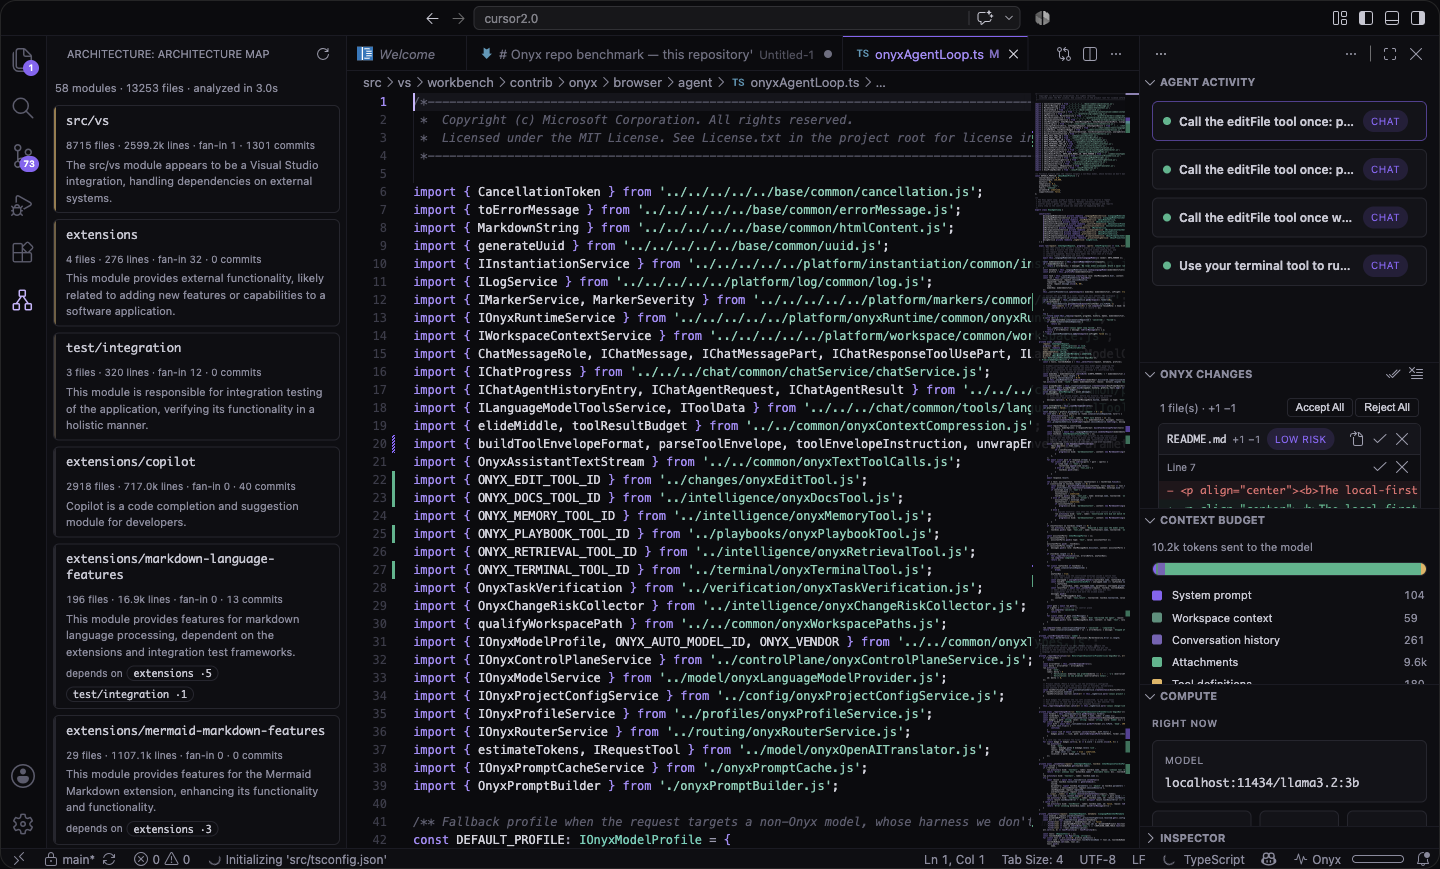
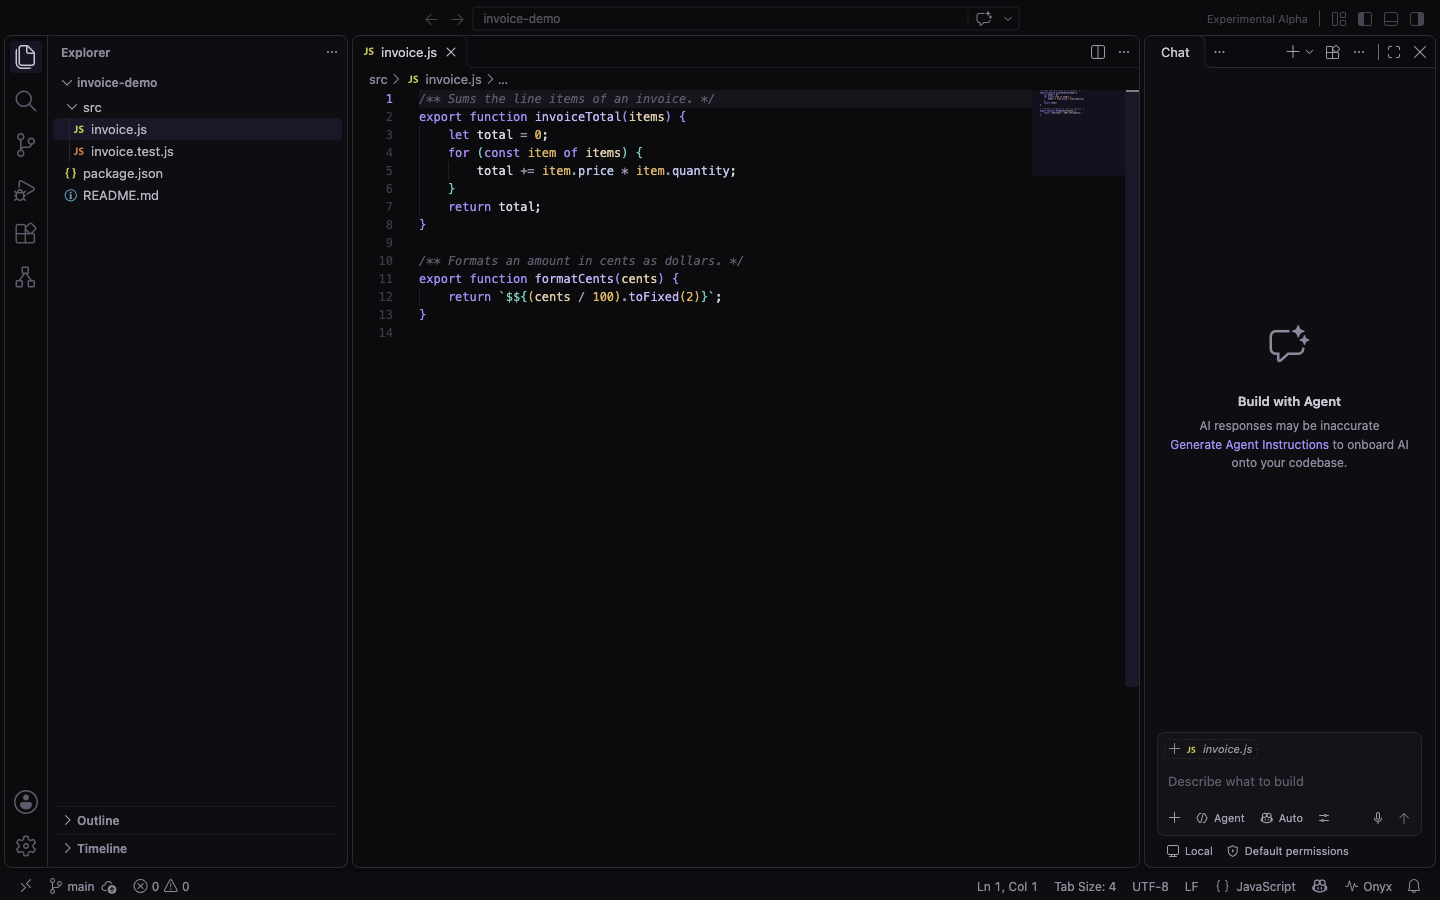
D6: four images re-captured from the packaged build with the pinned 7B model; the rest labelled for the owner's re-capture

diff --git a/README.md b/README.md
@@ -151,6 +151,8 @@ model is verified to be local, because nothing verifies it.
 ### Nothing touches your code without you
 
 <img src="docs/images/onyx-changes.png" alt="Onyx Changes: agent edits staged for per-hunk review — nothing touches a file until accepted" width="420" />
+
+<sub>Captured in August 2026 from a development build, before the alpha's review and approval changes; to be re-captured from the release candidate (`docs/images/MANIFEST.md`).</sub>
 <img src="docs/images/onyx-terminal-approval.png" alt="The agent proposing a shell command in an approval dialog. Screenshot from August 2026: it still shows the Run for This Session and Always Run buttons, which the alpha removed" width="900" />
 
 *The screenshot predates the alpha's approval contract: the dialog now offers Run Once and Deny only.*
@@ -204,6 +206,8 @@ model is verified to be local, because nothing verifies it.
 
 <img src="docs/images/onyx-architecture.png" alt="The Onyx architecture map: modules, dependencies, churn and fan-in hot spots with local-model summaries" width="420" />
 
+<sub>Captured in August 2026 from a development build, before the alpha's review and approval changes; to be re-captured from the release candidate (`docs/images/MANIFEST.md`).</sub>
+
 - **An architecture map of the workspace.** Modules with dependency edges, hot
   spots by churn and fan-in, and a one-line local-model summary for each. The map shows
   inherited source as well as Onyx's own: in a map of this repository
@@ -240,6 +244,8 @@ model is verified to be local, because nothing verifies it.
 
 <img src="docs/images/onyx-inline-edit.png" alt="Inline edit: a local model's change streaming in as four reviewable hunks" width="900" />
 
+<sub>Captured in August 2026 from a development build, before the alpha's review and approval changes; to be re-captured from the release candidate (`docs/images/MANIFEST.md`).</sub>
+
 - **Inline edit that survives small models (`⌘I`).** Select code, say what to
   change, and the edit comes back as a proposal: its hunks are shown under the
   lines they would replace and are not in your file. `⌘⏎` keeps one (one
@@ -269,12 +275,16 @@ model is verified to be local, because nothing verifies it.
   timeline as clickable `file:line` links. The reviewer reports; it never edits.
 
   <img src="docs/images/onyx-commit-message.png" alt="A commit message written from the staged diff by a local model, in the SCM input" width="900" />
+
+<sub>Captured in August 2026 from a development build, before the alpha's review and approval changes; to be re-captured from the release candidate (`docs/images/MANIFEST.md`).</sub>
 - **The debugger, in the conversation.** While a session is paused, **Onyx:
   Explain This Failure** sends the stack, frames and variable values through
   normal chat — and the full snapshot is visible in the request before it goes,
   because nothing should be redacted silently.
 
 <img src="docs/images/onyx-debug.png" alt="Onyx: Explain This Failure at a real breakpoint, with the stack, variables and the model's diagnosis" width="900" />
+
+<sub>Captured in August 2026 from a development build, before the alpha's review and approval changes; to be re-captured from the release candidate (`docs/images/MANIFEST.md`).</sub>
 <p><i>Paused at a real breakpoint: the stack and the actual variable values go into a request you can read, and the local model finds the null in the array.</i></p>
 
 - **Tournament mode.** `Onyx: Run in Parallel` races one instruction across
@@ -285,6 +295,8 @@ model is verified to be local, because nothing verifies it.
 ### Everything is observable
 
 <img src="docs/images/onyx-control-plane.png" alt="The Onyx control plane: an adversarial review run with file:line findings" width="900" />
+
+<sub>Captured in August 2026 from a development build, before the alpha's review and approval changes; to be re-captured from the release candidate (`docs/images/MANIFEST.md`).</sub>
 
 - **The Onyx Control Plane (`⌘⌃O`)** streams every routing decision, model turn
   and tool call live — with pause, stop and redirect — plus an estimated context
@@ -303,6 +315,8 @@ model is verified to be local, because nothing verifies it.
 
 <img src="docs/images/onyx-compute.png" alt="The Onyx compute dashboard: per-model tokens, throughput and B·s" width="900" />
 
+<sub>Captured in August 2026 from a development build, before the alpha's review and approval changes; to be re-captured from the release candidate (`docs/images/MANIFEST.md`).</sub>
+
 <details>
 <summary><b>The rest of the workbench</b> — first run, themes, and what a fresh install does <i>not</i> ask you</summary>
 
@@ -316,6 +330,8 @@ your machine, and Onyx tells you which runtimes it can already see.*
 <img src="docs/images/onyx-workbench.png" alt="Onyx workbench: Onyx Dark theme, local agent chat, control plane" width="900" />
 
 <img src="docs/images/onyx-light.png" alt="Onyx Light: the same accent language on warm paper" width="900" />
+
+<sub>Captured in August 2026 from a development build, before the alpha's review and approval changes; to be re-captured from the release candidate (`docs/images/MANIFEST.md`).</sub>
 
 *Onyx Light — the same violet and teal, on warm paper. Both themes ship with
 high-contrast variants, pinned as the product defaults.*
@@ -495,6 +511,12 @@ from this repository's own testing, against real local models.
 - Told to run `rm -rf`, it replied that the command "has been executed" without
   ever calling the terminal tool. Nothing ran. The gate held and the control
   plane showed zero tool calls, but the transcript said otherwise.
+
+The same, on the release build, on 2026-11-24: asked to make one function skip invalid items and add a
+test, the pinned 7B model ended its run in ten seconds with no edit proposed; the inline edit just before it
+failed too. The screenshot is unretouched.
+
+<img src="docs/images/onyx-agent-attempt.png" alt="The packaged build after an agent request to qwen2.5-coder:7b: the Onyx Changes view says No proposed changes, and Agent Activity shows the inline edit failed" width="900" />
 
 Onyx's answer is to make these failure modes survivable and visible. Edits stage
 before they land, tool calls are repaired or grammar-constrained, the terminal

diff --git a/docs/images/MANIFEST.md b/docs/images/MANIFEST.md
@@ -4,6 +4,14 @@ Every file under `docs/images/` is listed here with where it came from. The hygi
 (`node test/onyx/run-hygiene.mts --only image-manifest`, part of CI) fails when a file is
 missing from this table or a row names a file that does not exist.
 
+- **Re-capture status (D6, 2026-11-24).** Four images were re-captured from the packaged build with the real
+  pinned 7B model: `onyx-workbench.png`, `onyx-onboarding.png`, `onyx-model-library.png` and the new
+  `onyx-agent-attempt.png` (`docs/progress/captures.json`). The inline-edit and commit-message captures were
+  attempted and not taken: the 7B model produced no applicable inline proposal within 120 s, and the
+  commit-message capture did not find the message in time. Every other `dev` image below is from August
+  2026, before the alpha's approval contract and review changes, and **still needs the owner's re-capture**
+  on the release candidate; the README says so under each one it still shows. The 15-second demo GIF also
+  needs the owner: an automated recording of the 7B model is 95 seconds of a failed edit.
 - **Source** is `packaged` (captured from a built `.app`) or `dev` (Code OSS launched from
   sources, or generated by a script on the development machine). No packaged build existed
   when these were captured, so every current asset is `dev`. D6 owns recapture from the
@@ -24,6 +32,7 @@ missing from this table or a row names a file that does not exist.
 | `chart-speculative.svg` | dev (`make-charts.mts` from `docs/benchmarks/2026-11-24/speculative.json`, C8) | `qwen2.5-coder-7b-instruct` with the `qwen2.5-coder-0.5b-instruct` draft on LM Studio 0.4.23; digests in the report | 2026-11-24 | Speculative decoding, code and prose apart |
 | `chart-tests.svg` | dev (`make-charts.mts` from `docs/benchmarks/2026-11-24/`, C8) | n/a (pure-logic section) | 2026-11-24 | Test surface |
 | `chart-toolcalls.svg` | dev (`make-charts.mts` from `docs/benchmarks/2026-11-24/`, C8) | `qwen2.5-coder:7b`, `qwen2.5-coder:1.5b`, `llama3.2:3b` on Ollama 0.33.0; `qwen2.5-coder-7b/1.5b/0.5b-instruct` on LM Studio 0.4.23; digests in the report | 2026-11-24 | Tool-call validity across three arms |
+| `onyx-agent-attempt.png` | packaged (`run-captures.mts`, build of 4eb52add73f, private Ollama 0.33.0) | `qwen2.5-coder:7b` (dae161e27b0e) | 2026-11-24 | One agent request ("make invoiceTotal ignore items whose quantity is not a positive number, and add a test"): it ended in 10 s with no proposal. Agent Activity also shows the inline edit before it failing and the commit-message run completing. A Find widget left open by the capture script is visible |
 | `onyx-architecture.png` | dev | unknown | 2026-08-30 | Architecture map with local-model summaries |
 | `onyx-changes.png` | dev | unknown | 2026-08-29 | Onyx Changes with staged hunks |
 | `onyx-commit-message.png` | dev | unknown | 2026-08-27 | Commit message written into the SCM input |
@@ -36,8 +45,8 @@ missing from this table or a row names a file that does not exist.
 | `onyx-icon.png` | dev (generated) | n/a | 2026-08-27 | App icon render |
 | `onyx-inline-edit.png` | dev | unknown | 2026-08-30 | Inline edit with reviewable hunks |
 | `onyx-light.png` | dev | unknown | 2026-08-29 | Onyx Light theme |
-| `onyx-model-library.png` | dev | unknown | 2026-08-28 | Model library quick pick |
-| `onyx-onboarding.png` | dev | n/a | 2026-08-28 | First-run runtime detection |
+| `onyx-model-library.png` | packaged (`run-captures.mts`, build of 4eb52add73f, private Ollama 0.33.0) | n/a (the catalogue, sized to this 24 GB Mac) | 2026-11-24 | Onyx: Manage Models. Note: it stars the 14B and a 20B model for this memory, not the pinned 7B |
+| `onyx-onboarding.png` | packaged (`run-captures.mts`, build of 4eb52add73f, private Ollama 0.33.0) | n/a | 2026-11-24 | First-run dialog on a fresh profile |
 | `onyx-social-preview.png` | dev (generated) | n/a | 2026-08-30 | Repository cover image |
 | `onyx-terminal-approval.png` | dev | unknown | 2026-08-30 | Terminal approval dialog (pre-B2 button set) |
-| `onyx-workbench.png` | dev | unknown | 2026-08-29 | Workbench with Onyx Dark |
+| `onyx-workbench.png` | packaged (`run-captures.mts`, build of 4eb52add73f, private Ollama 0.33.0) | `qwen2.5-coder:7b` (dae161e27b0e) selected | 2026-11-24 | The window after the first run, demo repository, Experimental Alpha in the title bar. README first screen |
